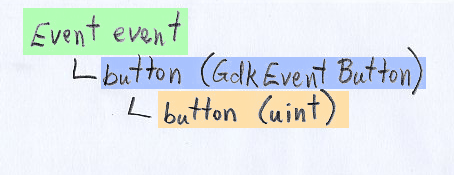
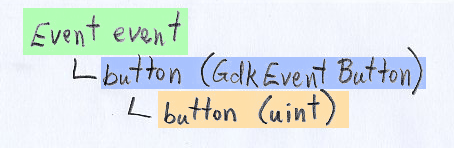
fixed broken image link

Changed region(s): [[0.0308, 0.027, 0.9559, 0.8649]]

diff --git a/docs/_posts/2019-11-12-0087-nodes-vi-hotspots.md b/docs/_posts/2019-11-12-0087-nodes-vi-hotspots.md
@@ -254,7 +254,7 @@ Of all the values in this struct, what we want are the `x` and `y` variables whi
 
 <div class="inpage-frame">
 	<figure class="right">
-		<img src="/images/diagrams/023_nodes/event_hierarchy.png" alt="Figure 1: button variables at two levels in the hierarchy" style="width: 454px; height: 175px;">
+		<img src="/images/diagrams/023_nodes/event_hierarchy.png" alt="Figure 1: button variables at two levels in the hierarchy" style="width: 454px; height: 148px;">
 		<figcaption>
 			Figure 1: button variables at two levels in the hierarchy
 		</figcaption>
